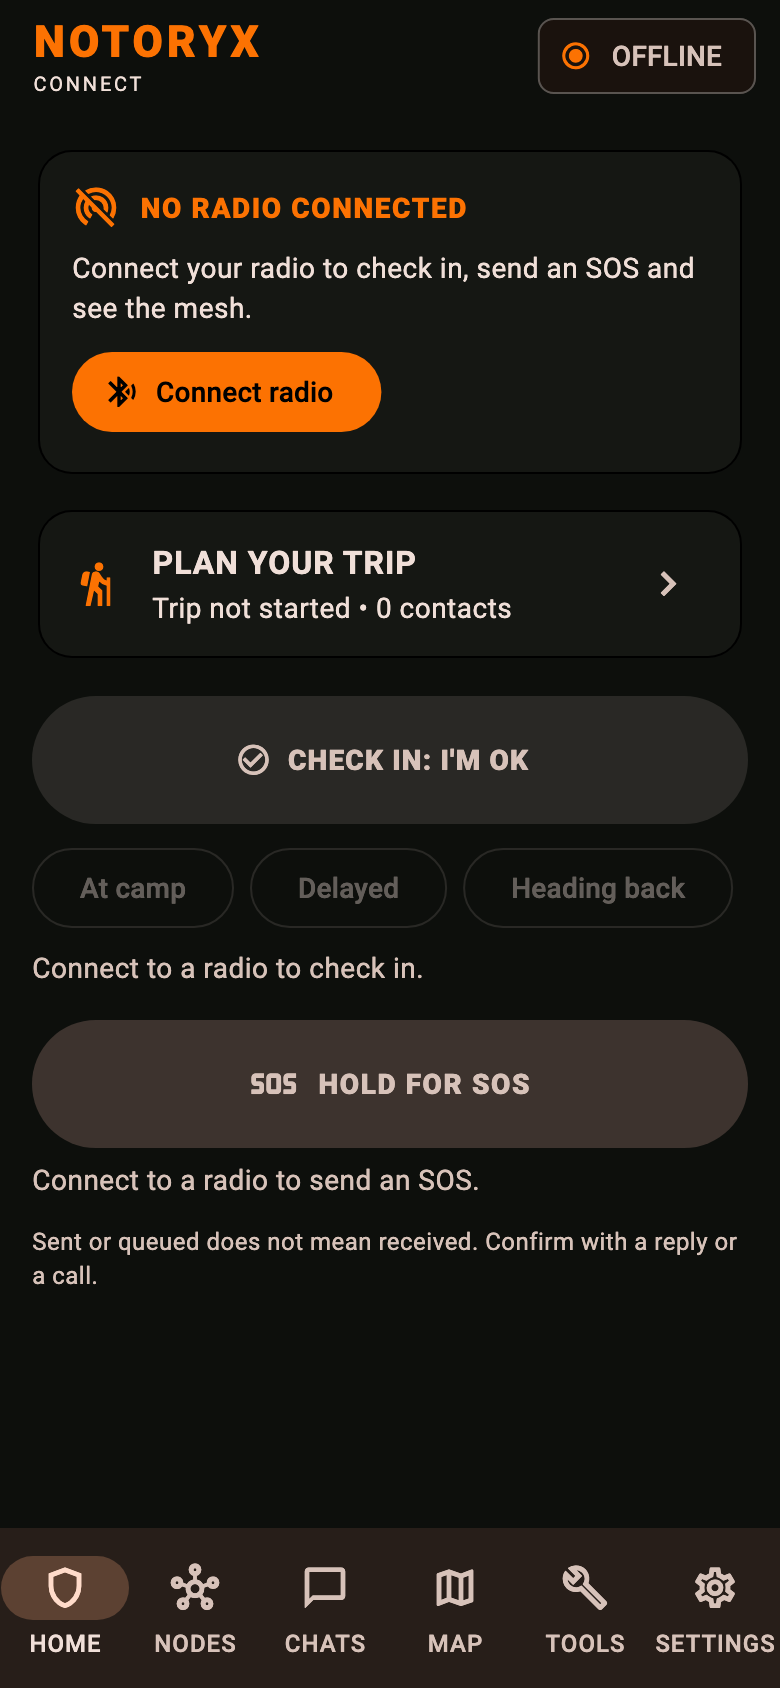
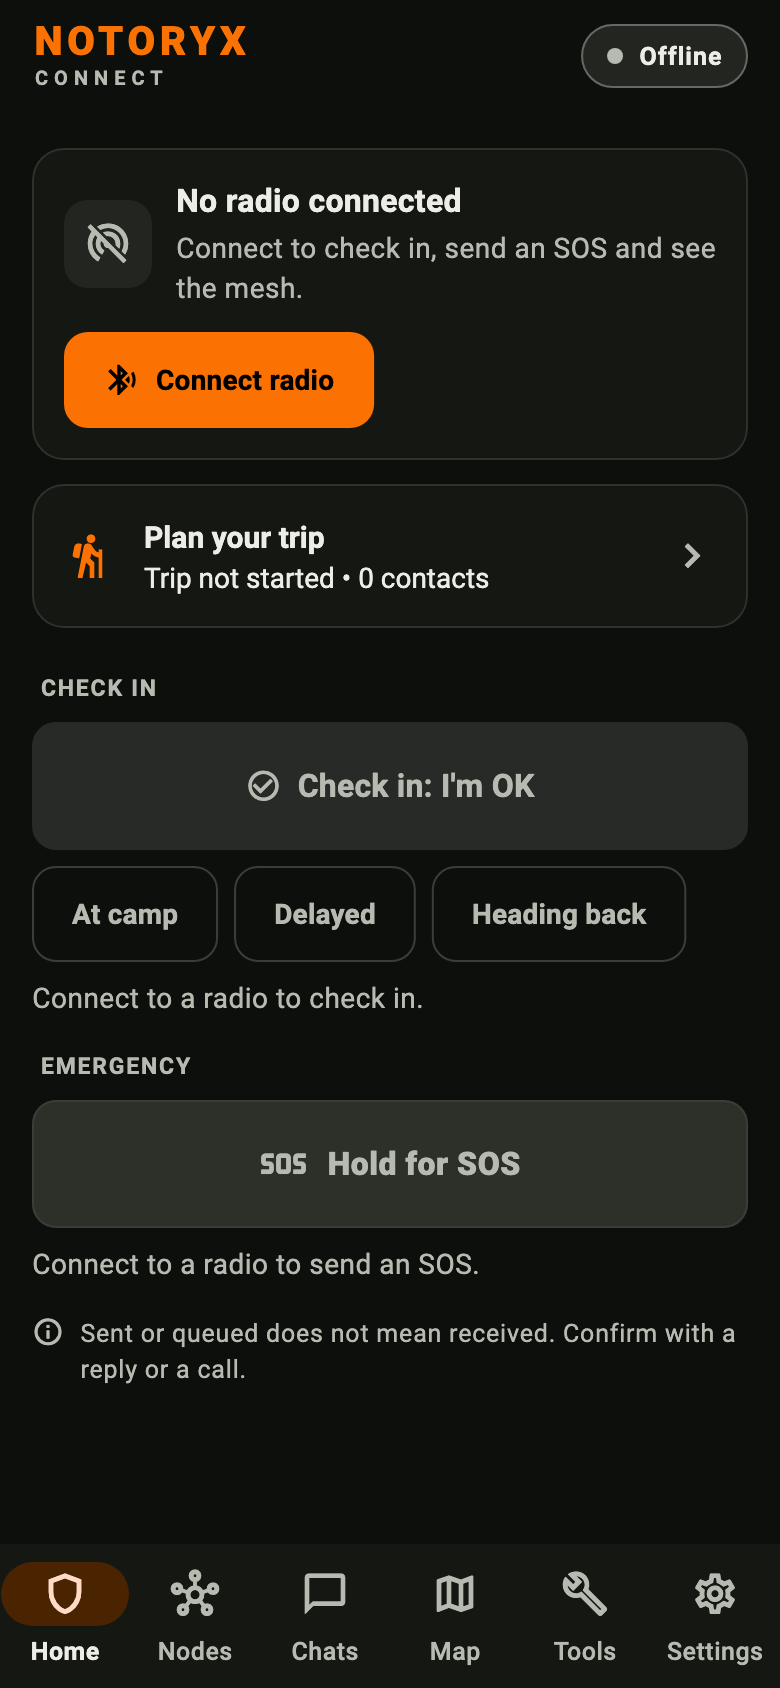
Redesign: restyle beacon headings, refresh README screenshots

diff --git a/lib/beacon_page.dart b/lib/beacon_page.dart
@@ -2,6 +2,8 @@ import 'dart:convert';
 
 import 'package:flutter/material.dart';
 
+import 'theme/nx_components.dart';
+
 import 'channel_share_page.dart';
 import 'services/bastion_beacons.dart';
 import 'services/meshtastic_radio_coordinator.dart';
@@ -92,8 +94,7 @@ class _BeaconPageState extends State<BeaconPage> {
           Card(child: Padding(
             padding: const EdgeInsets.all(16),
             child: Column(crossAxisAlignment: CrossAxisAlignment.stretch, children: [
-              Text('SEND A BEACON', style: Theme.of(context).textTheme.titleSmall
-                  ?.copyWith(fontWeight: FontWeight.bold)),
+              Text('Send a beacon', style: Theme.of(context).textTheme.titleMedium),
               const SizedBox(height: 12),
               TextField(
                 controller: _message,
@@ -129,10 +130,7 @@ class _BeaconPageState extends State<BeaconPage> {
                   padding: const EdgeInsets.only(top: 8), child: Text(_status!))),
             ]),
           )),
-          const SizedBox(height: 8),
-          Text('HEARD BEACONS', style: Theme.of(context).textTheme.titleSmall
-              ?.copyWith(fontWeight: FontWeight.bold)),
-          const SizedBox(height: 8),
+          const NxSectionLabel('Heard beacons'),
           if (radio.beacons.isEmpty)
             const Card(child: ListTile(
               leading: Icon(Icons.wifi_tethering_off),
